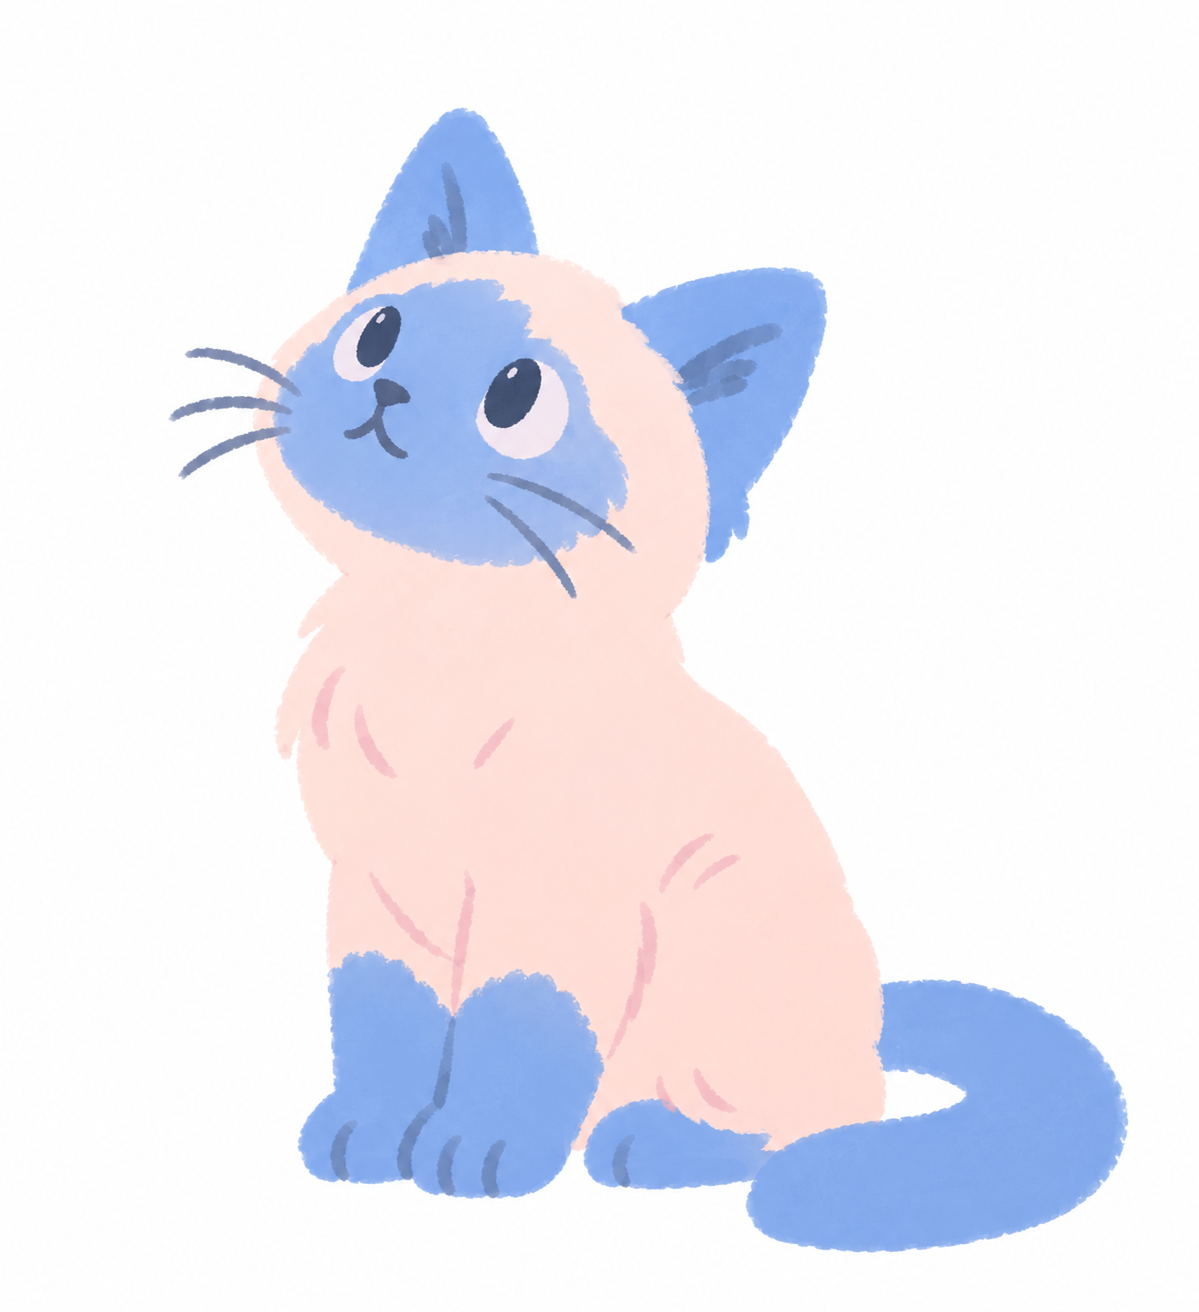
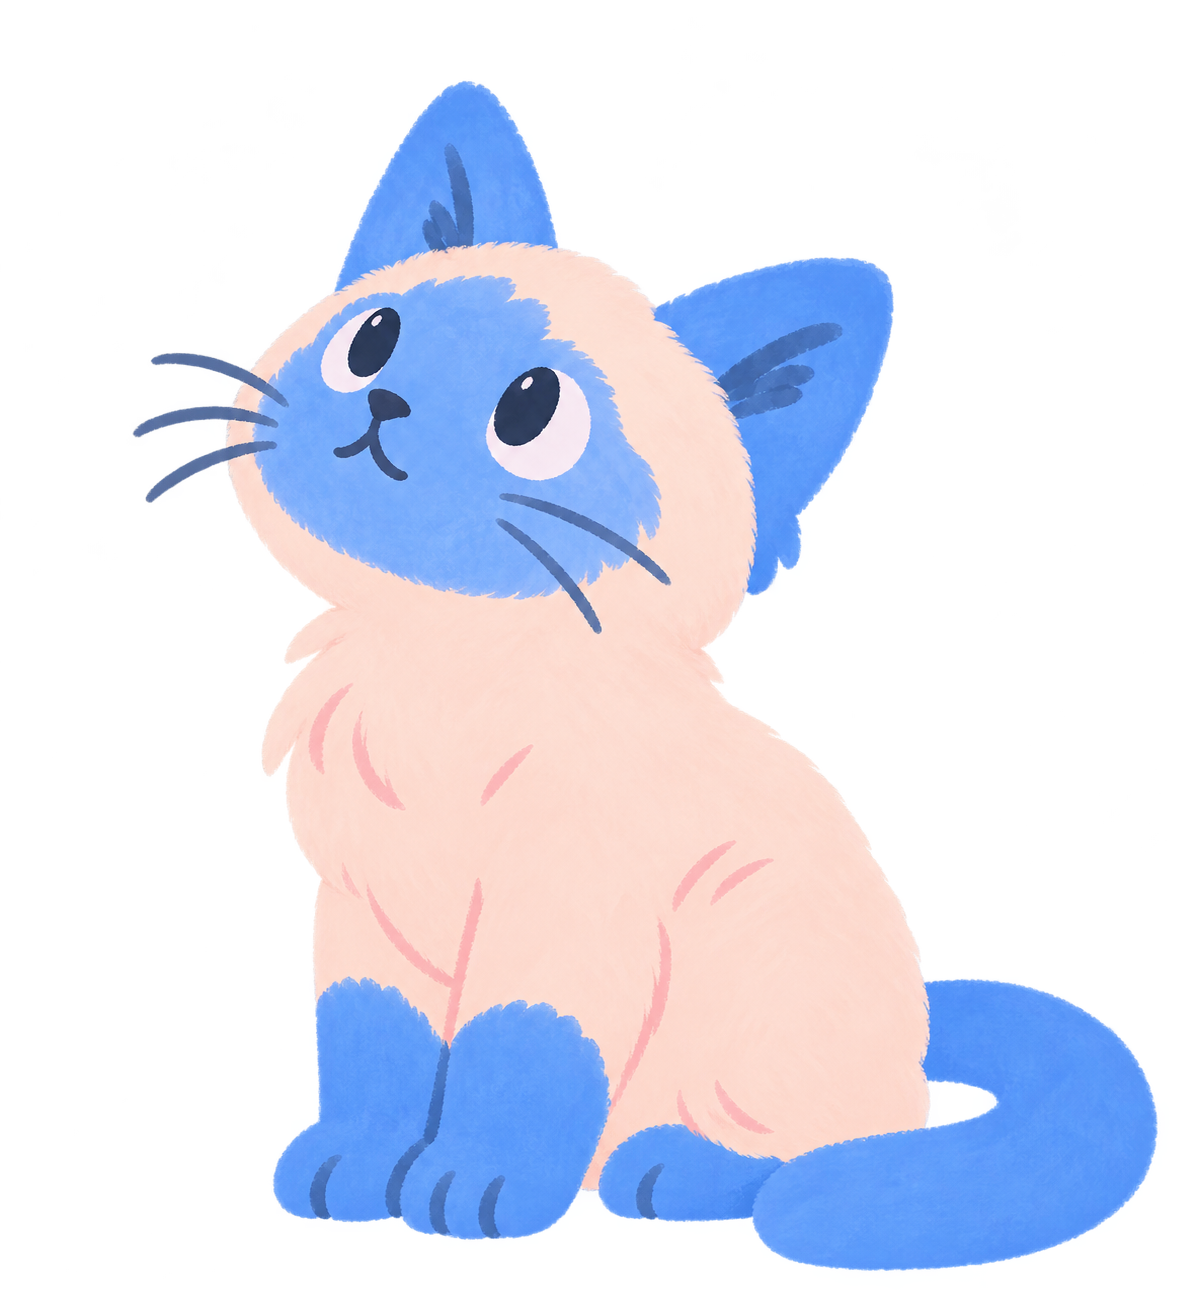
feat: add Blue illustration to empty states

diff --git a/src/components/EmptyState.tsx b/src/components/EmptyState.tsx
@@ -1,7 +1,10 @@
 import type { ReactNode } from 'react';
-import { View } from 'react-native';
+import { Image, View } from 'react-native';
 import { Text } from './Text';
 import { EMPTY_STATE_CLASS_NAME } from '../theme/classes';
+
+const standingCat = require('../../assets/cats/cat-blue-standing.png');
+const standingCatSize = Image.resolveAssetSource(standingCat);
 
 export function EmptyState({
   icon,
@@ -23,6 +26,15 @@ export function EmptyState({
           {description}
         </Text>
       </View>
+      <Image
+        source={standingCat}
+        resizeMode="contain"
+        accessible={false}
+        accessibilityElementsHidden
+        importantForAccessibility="no-hide-descendants"
+        className="mt-3 w-36 max-w-full shrink-0"
+        style={{ height: 'auto', aspectRatio: standingCatSize.width / standingCatSize.height }}
+      />
     </View>
   );
 }
